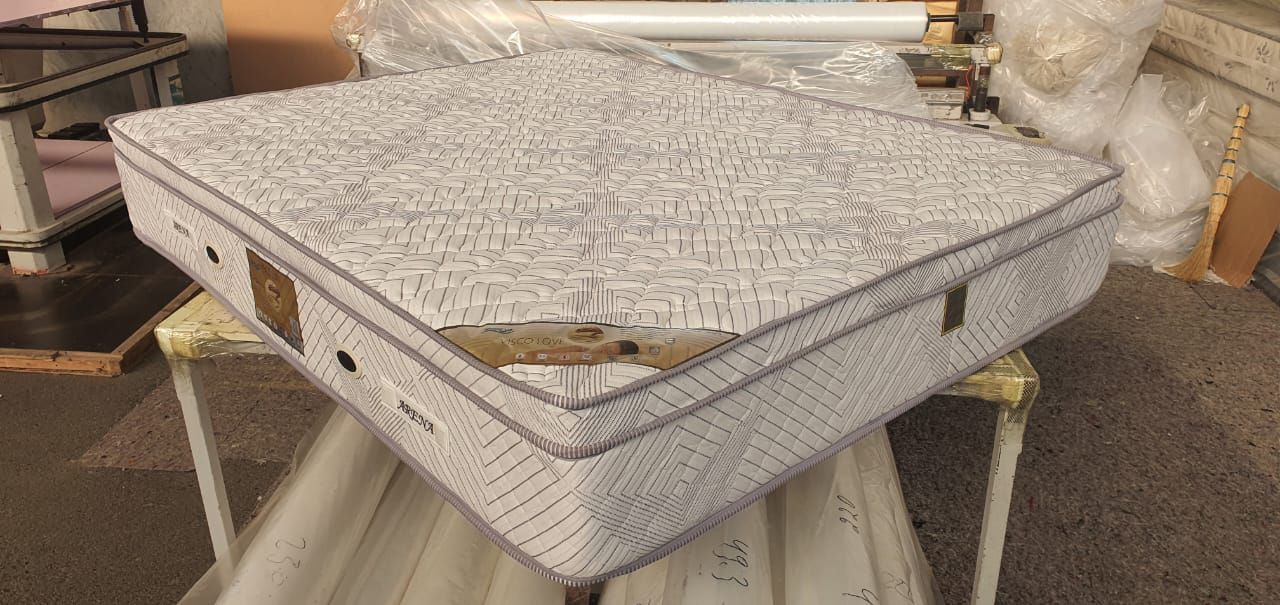
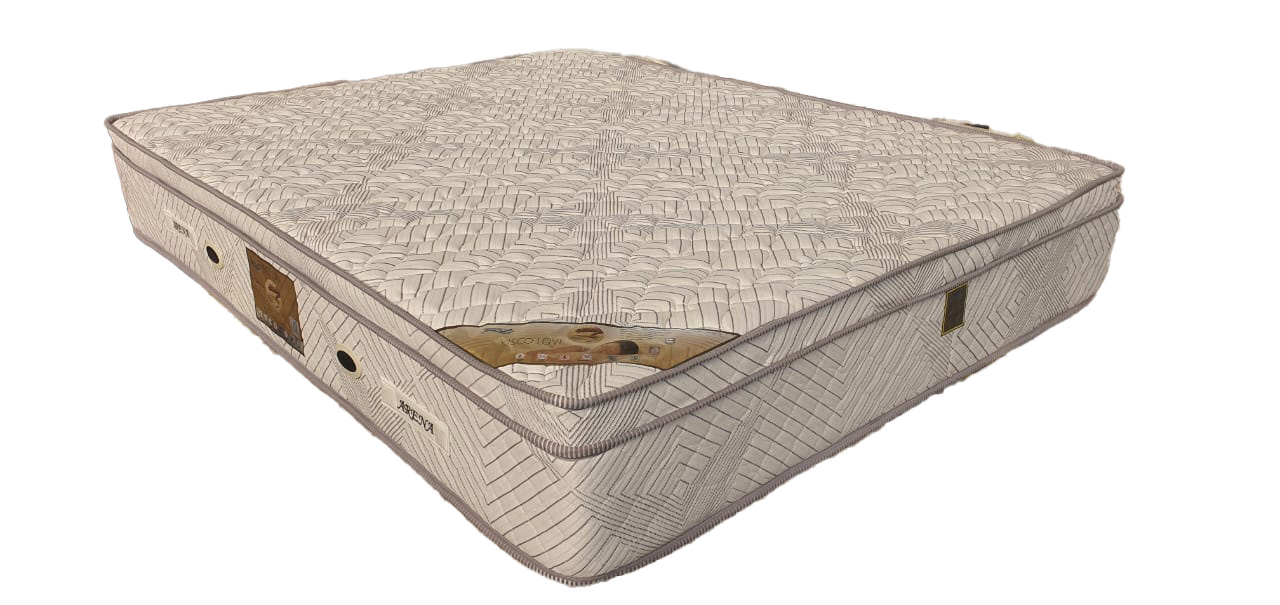
dsfds

diff --git a/src/components/Visco.jsx b/src/components/Visco.jsx
@@ -1,0 +1,32 @@
+import { visco2 } from "../assets";
+import styles, { layout } from "../style";
+
+const Visco = () => (
+    <section id="products" className={`${layout.sectionReverse} `}>
+        <div className={layout.sectionInfo}>
+            <h2 className={styles.heading2}>
+                Visco Lux
+            </h2>
+            <p className={`${styles.paragraph} mt-5 text-black`}>
+                160x200 ortopedik yatak<br />
+                1- Doşek 28 cm yüksəkliktə<br />
+                2-900 gr sert keçe<br />
+                3-25 danste 6x16 cm yan destek sünger takozlu<br />
+                4-20 danste 17 adet iç 5x15 iç  süngər takozlu<br />
+                5-25 danste list sünger üst və altta<br />
+                6-280 gr.pamuk örnek kumaş <br />
+                7-2.1 cm kapitone süngeri<br />
+                8-Özəl Soprano deseni<br />
+                9-Oval hava komsülleri<br />
+                10-Yazılı yan kulplar<br />
+                11-destek sünger takoz (tam dolu)<br />
+                12-120 gr elyaf<br />
+            </p>
+        </div>
+        <div className={layout.sectionImgReverse}>
+            <img src={visco2} alt="billing" className="w-[100%]  relative z-[5] rounded" />
+        </div>
+    </section>
+);
+
+export default Visco;

diff --git a/src/Pages/Main.jsx b/src/Pages/Main.jsx
@@ -1,5 +1,5 @@
 import styles from "../style";
-import { Billing, Second, Business, Clients, Footer, NavBar, Hero, Seconnn, } from "../components";
+import { Billing, Second, Business, Clients, Footer, NavBar, Hero, Seconnn, Visco, } from "../components";
 import Imagas from "../components/imgas";
 import SimpleSlider from "../components/Carousel";
 import Lili from "../components/LİLİ";
@@ -26,6 +26,7 @@ const Main = () => (
                     <Second />
                     <Seconnn />
                     <Billing />
+                    <Visco />
                     <div className="products" id="product">
                         <Imagas />
                     </div>

diff --git a/src/assets/index.js b/src/assets/index.js
@@ -40,6 +40,7 @@ import img65 from "./img65.jpg";
 import banner from "./banner.jpg";
 import img3318 from "./img3318.jpg";
 import visco from "./visco.png";
+import visco2 from "./visco.jpg";
 import lili from "./lili.jpg";
 
 
@@ -47,6 +48,7 @@ export {
   img3318,
   lili,
   visco,
+  visco2,
   banner,
   img1,
   img14,

diff --git a/src/components/index.js b/src/components/index.js
@@ -9,10 +9,12 @@ import Hero from "./Hero";
 import Second from "./Second";
 import Seconnn from "./Seconnn";
 import LILI from "./LİLİ"
+import Visco from "./Visco"
 
 export {
   NavBar,
   LILI,
+  Visco,
   Billing,
   Second,
   Seconnn,
